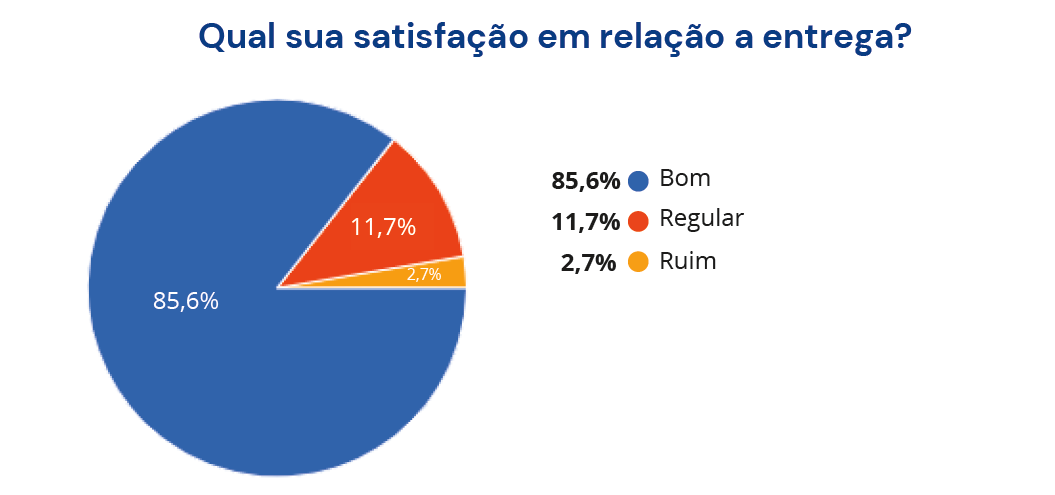
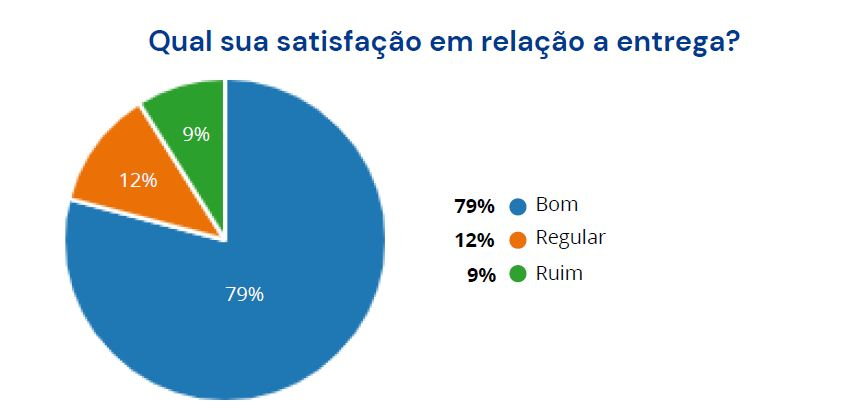
Alteração indicadores
Atualização graficos abril

diff --git a/its/pesquisa.html b/its/pesquisa.html
@@ -39,7 +39,7 @@
                 <div class="col status mt-4"><img src="../imagens/bielito.png" alt=""></div>
                 <div class="col mb-4">
                     <h4 class="mt-4" style="text-align: center">Pesquisa</h4>
-                    <h4 class="mt-4" style="text-align: center">Pesquisa de Satisfação do Cliente 2023</h4>
+                    <h4 class="mt-4" style="text-align: center">Pesquisa de Satisfação do Cliente 2024</h4>
                 </div>
                 <div class="col mt-4">
                 </div>
@@ -47,17 +47,17 @@
             <div class="container">
                 <h4 class="mt-4">1 -</h4>
                 <div class="text-center">
-                    <img src="../imagens/pesquisa-img01 (1).PNG">
+                    <img src="../imagens/pesquisa-img01 (2).PNG">
                 </div>
 
                 <h4 class="mt-4">2 -</h4>
                 <div class="text-center">
-                    <img src="../imagens/pesquisa-img02.png.PNG">
+                    <img src="../imagens/pesquisa-img02 (1).PNG">
                 </div>
             
                 <h4 class="mt-4">3 -</h4>
                 <div class="text-center">
-                    <img src="../imagens/pesquisa-img03 (1).PNG">
+                    <img src="../imagens/pesquisa-img03 (2).PNG">
                 </div>
 
                 <h4 class="mt-4">4 -</h4>

diff --git a/indic/indice-vendas.html b/indic/indice-vendas.html
@@ -30,7 +30,7 @@
                 <div class="row mark">
                     <div class="col status centro">
                         <p class="font-weight-bold">Status Mensal</p>
-                        <img src="../imagens/indicadores-insatisfatorio.png">
+                        <img src="../imagens/indicadores-ideal.png">
                     </div>
                     <div class="col mb-4">
                         <h4 class="mt-4" style="text-align: center">Indicadores de Qualidade</h4>
@@ -68,8 +68,8 @@
                     </li>
                 </ul>
                 <div class="grafico">
-                    <img src="../imagens/grafico-vendas-indicadores (02.24).PNG">
-                    <img src="../imagens/sub-grafico-vendas (02.24).PNG">
+                    <img src="../imagens/grafico-vendas-indicadores (02.25).PNG">
+                    <img src="../imagens/sub-grafico-vendas (02.25).PNG">
                 </div>
                 <h3 class="centro legenda_titulo"> Legenda do Status </h3>
                 <div class="container ">

diff --git a/indic/satisfacao-clientes.html b/indic/satisfacao-clientes.html
@@ -31,7 +31,7 @@
                 <div class="row mark">
                     <div class="col status centro">
                         <p class="font-weight-bold">Status Mensal</p>
-                        <img src="../imagens/indicadores-ideal.png">
+                        <img src="../imagens/indicadores-insatisfatorio.png">
                     </div>
                     <div class="col mb-4">
                         <h4 class="mt-4" style="text-align: center">Indicadores de Qualidade</h4>
@@ -68,8 +68,8 @@
                     </li>
                 </ul>
                 <div class="grafico">
-                    <img src="../imagens/grafico-satisfacao (02.24).PNG">
-                    <img src="../imagens/sub-grafico-satisfacao (02.24).PNG">
+                    <img src="../imagens/grafico-satisfacao (02.25).PNG">
+                    <img src="../imagens/sub-grafico-satisfacao (02.25).PNG">
                 </div>
                 <h3 class="centro legenda_titulo"> Legenda do Status </h3>
                 <div class="container ">

diff --git a/indic/faltas-justificadas.html b/indic/faltas-justificadas.html
@@ -35,7 +35,7 @@
           <div class="row mark">
             <div class="col status centro">
               <p class="font-weight-bold">Status Mensal</p>
-              <img src="../imagens/indicadores-satisfatorio.png" />
+              <img src="../imagens/indicadores-insatisfatorio.png" />
             </div>
             <div class="col mb-4">
               <h4 class="mt-4" style="text-align: center">
@@ -86,8 +86,8 @@
             </li>
           </ul>
           <div class="grafico">
-            <img src="../imagens/grafico-faltas-justificadas (02.24).PNG" />
-            <img src="../imagens/sub-grafico-faltas-justificadas (02.24).PNG" />
+            <img src="../imagens/grafico-faltas-justificadas (02.25).PNG" />
+            <img src="../imagens/sub-grafico-faltas-justificadas (02.25).PNG" />
           </div>
           <h3 class="centro legenda_titulo">Legenda do Status</h3>
           <div class="container">

diff --git a/indic/acuracidade-estoque-saida.html b/indic/acuracidade-estoque-saida.html
@@ -68,8 +68,8 @@
                     </li>
                 </ul>
                 <div class="grafico">
-                    <img src="../imagens/grafico-acuracidade-estoque-saida (02.24) (1).PNG">
-                    <img src="../imagens/sub-grafico-acuracidade-estoque-saida (02.24) (1).PNG">
+                    <img src="../imagens/grafico-acuracidade-estoque-saida (25).PNG">
+                    <img src="../imagens/sub-grafico-acuracidade-estoque-saida (25).PNG">
                 </div>
                 <h3 class="centro legenda_titulo">Legenda do Status</h3>
                 <div class="container ">

diff --git a/indic/indice-devolucao.html b/indic/indice-devolucao.html
@@ -68,8 +68,8 @@
                     </li>
                 </ul>
                 <div class="grafico">
-                    <img src="../imagens/grafico-devolucao-clientes (02.24).PNG">
-                    <img src="../imagens/sub-grafico-devolucao-clientes (02.24).PNG">
+                    <img src="../imagens/grafico-devolucao-clientes (02.25).PNG">
+                    <img src="../imagens/sub-grafico-devolucao-clientes (02.25).PNG">
                 </div>
                 <h3 class="centro legenda_titulo"> Legenda do Status </h3>
                 <div class="container ">

diff --git a/indic/acuracidade-estoque.html b/indic/acuracidade-estoque.html
@@ -68,8 +68,8 @@
                     </li>
                 </ul>
                 <div class="grafico">
-                    <img src="../imagens/grafico-acuracidade-estoque (02.24).PNG">
-                    <img src="../imagens/sub-grafico-acuracidade-estoque (02.24).PNG">
+                    <img src="../imagens/grafico-acuracidade-estoque (25).PNG">
+                    <img src="../imagens/sub-grafico-acuracidade-estoque (25).PNG">
                 </div>
                 <h3 class="centro legenda_titulo">Legenda do Status</h3>
                 <div class="container ">

diff --git a/indic/inadimplencia.html b/indic/inadimplencia.html
@@ -68,8 +68,8 @@
                     </li>
                 </ul>
                 <div class="grafico">
-                    <img src="../imagens/grafico-inadimplencia (02.24) (1).PNG">
-                    <img src="../imagens/sub-grafico-inadimplencia (02.24) (1).PNG">
+                    <img src="../imagens/grafico-inadimplencia (02.24) (2).PNG">
+                    <img src="../imagens/sub-grafico-inadimplencia (02.24) (2).PNG">
                 </div>
                 <h3 class="centro titulo">Legenda do Status</h3>
                 <div class="container ">

diff --git a/indic/monitoramento-fornecedores.html b/indic/monitoramento-fornecedores.html
@@ -86,8 +86,8 @@
             </li>
           </ul>
           <div class="grafico">
-            <img src="../imagens/grafico-monitoramento-fornecedores (02.24).PNG" />
-            <img src="../imagens/sub-grafico-monitoramento-fornecedores (02.24).PNG" />
+            <img src="../imagens/grafico-monitoramento-fornecedores (02.24) (1).PNG" />
+            <img src="../imagens/sub-grafico-monitoramento-fornecedores (02.24) (1).PNG" />
           </div>
           <h3 class="centro legenda_titulo">Legenda do Status</h3>
           <div class="container">

diff --git a/indic/reclamacao-clientes.html b/indic/reclamacao-clientes.html
@@ -83,8 +83,8 @@
             </li>
           </ul>
           <div class="grafico">
-            <img src="../imagens/grafico-reclamacoes-cliente (02.24).PNG" />
-            <img src="../imagens/sub-grafico-reclamacoes-cliente (02.24).PNG" />
+            <img src="../imagens/grafico-reclamacoes-cliente (02.25).PNG" />
+            <img src="../imagens/sub-grafico-reclamacoes-cliente (02.25).PNG" />
           </div>
           <h3 class="centro legenda_titulo">Legenda do Status</h3>
           <div class="container">

diff --git a/indic/compensacao-horas.html b/indic/compensacao-horas.html
@@ -87,8 +87,8 @@
             </li>
           </ul>
           <div class="grafico">
-            <img src="../imagens/grafico-compensacao-horas (02.24).PNG" />
-            <img src="../imagens/sub-grafico-compensacao-horas (02.24) (1).PNG" />
+            <img src="../imagens/grafico-compensacao-horas (02.25).PNG" />
+            <img src="../imagens/sub-grafico-compensacao-horas (02.25).PNG" />
           </div>
           <h3 class="centro legenda_titulo">Legenda do Status</h3>
           <div class="container">

diff --git a/indic/tempo-pedido-consignado.html b/indic/tempo-pedido-consignado.html
@@ -86,8 +86,8 @@
             </li>
           </ul>
           <div class="grafico">
-            <img src="../imagens/grafico-tempo-consignado (02.24).PNG" />
-            <img src="../imagens/sub-grafico-tempo-consignado (02.24).PNG"/>
+            <img src="../imagens/grafico-tempo-consignado (02.25).PNG" />
+            <img src="../imagens/sub-grafico-tempo-consignado (02.25).PNG"/>
           </div>
           <h3 class="centro legenda_titulo">Legenda do Status</h3>
           <div class="container">
